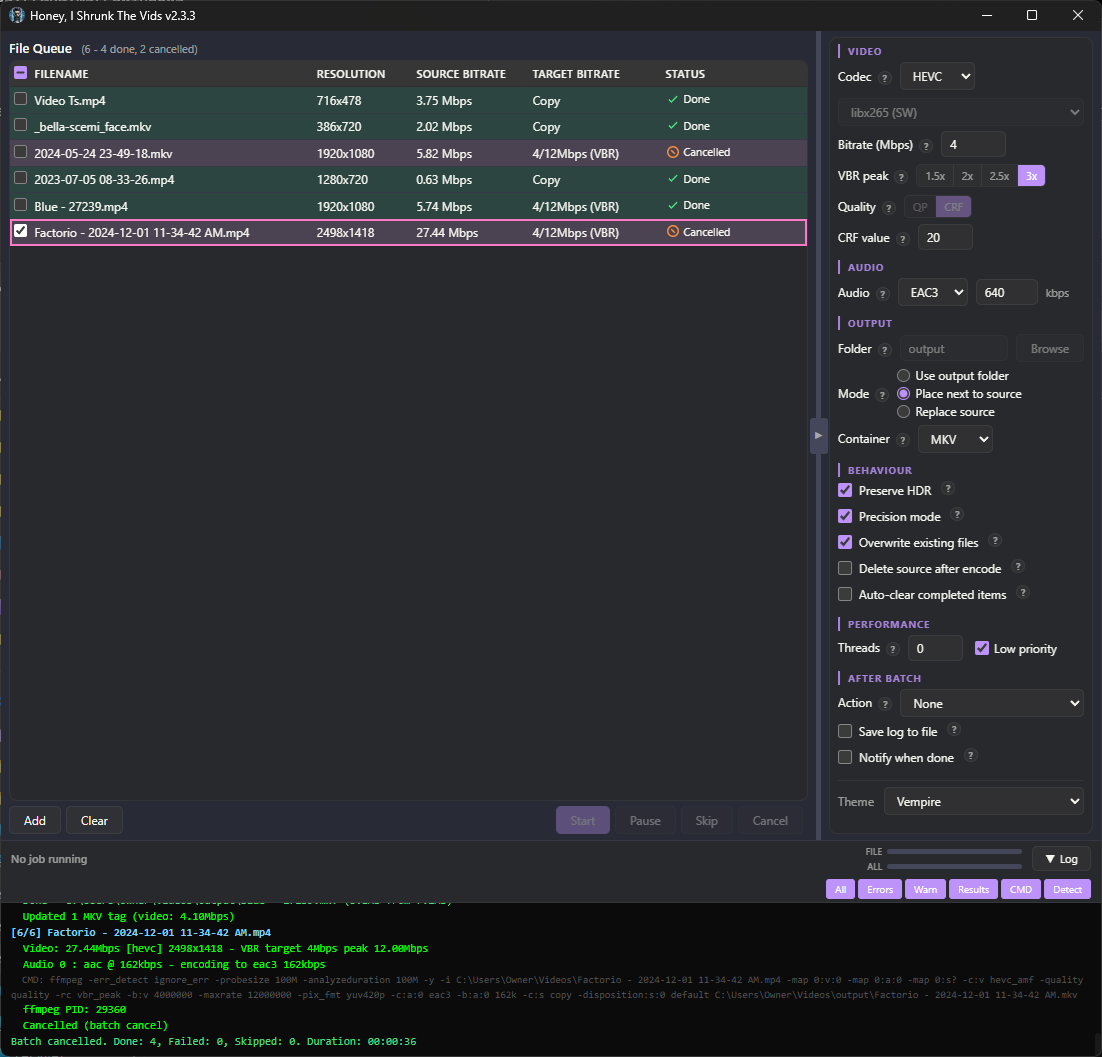
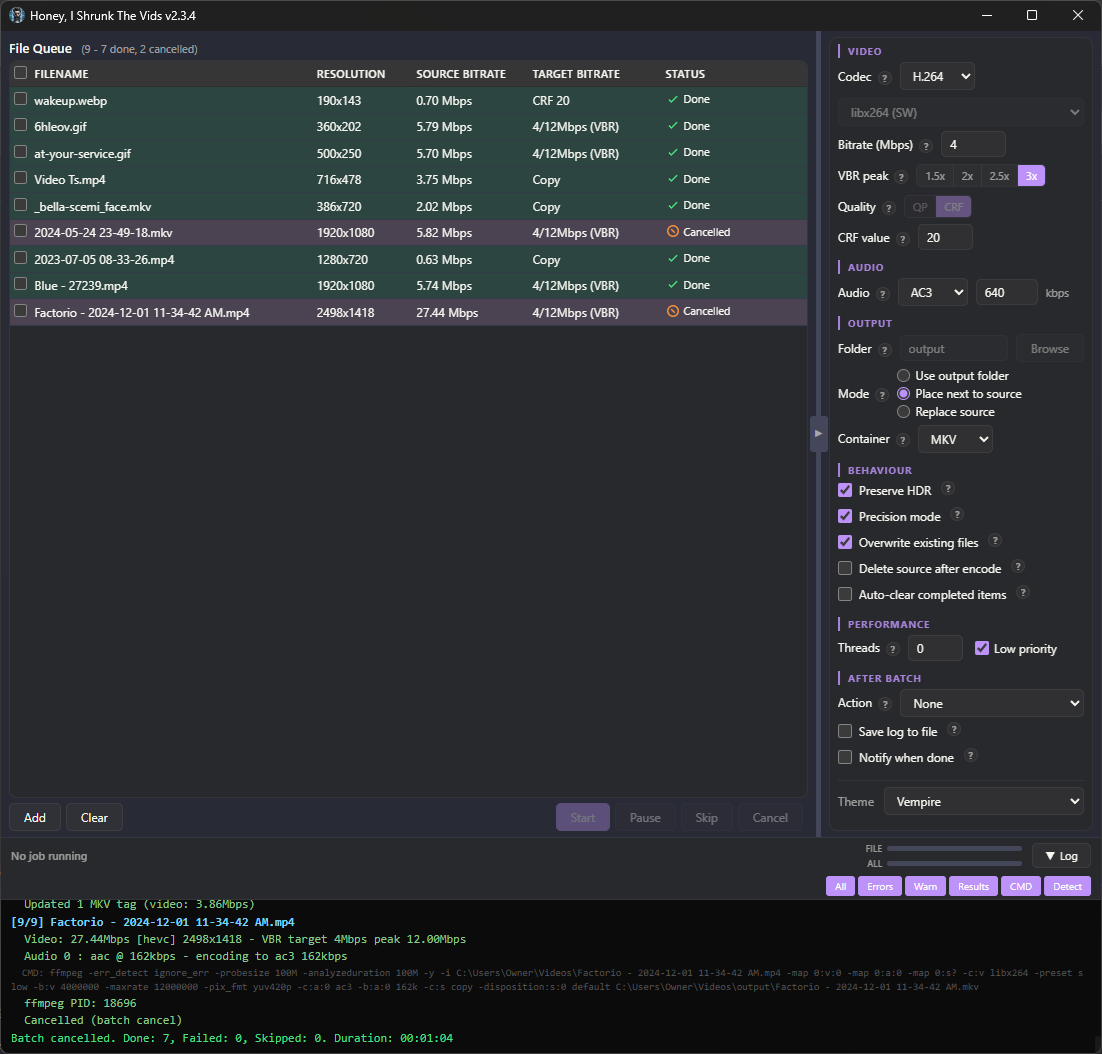
Update screenshots & README.md

diff --git a/README.md b/README.md
@@ -121,7 +121,7 @@ You set a target bitrate and the app decides what to do with each file:
 | Already small enough | **Copied as-is** - no re-encoding, regardless of codec |
 | Too big | **Shrunk** to hit the target bitrate using VBR encoding |
 | Zero bitrate / unreadable header | **Re-encoded for quality** using QP or CRF |
-| GIF or APNG | **Always re-encoded** into a proper video |
+| GIF, APNG, or animated WebP | **Always re-encoded** into a proper video |
 
 Files within 15% above the threshold that are already in the target codec are also copied rather than re-encoded, to avoid wasting time on marginal gains.
 
@@ -185,6 +185,7 @@ People with a pile of video files at different sizes and formats who want to shr
 │   │   ├── disk_monitor.rs     # Disk-space estimation + runtime monitoring
 │   │   ├── config.rs           # GUI persistent settings
 │   │   └── themes.rs           # Theme loading + built-in themes
+│   │   ├── webp_decode.rs      # Animated WebP RIFF parser + decode pipeline
 │   └── themes/                 # User-editable theme JSON files
 ├── .github/workflows/          # CI: per-platform builds
 ├── THEMES.md                   # Theme creation guide
